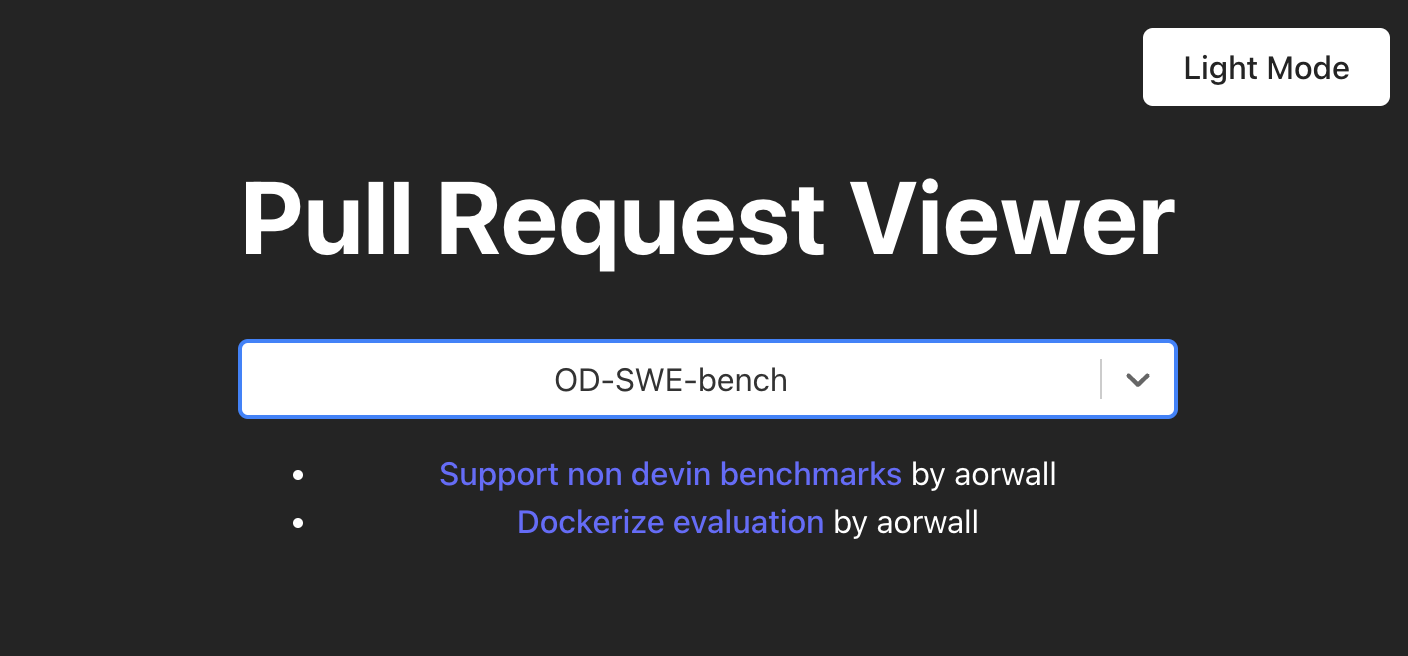
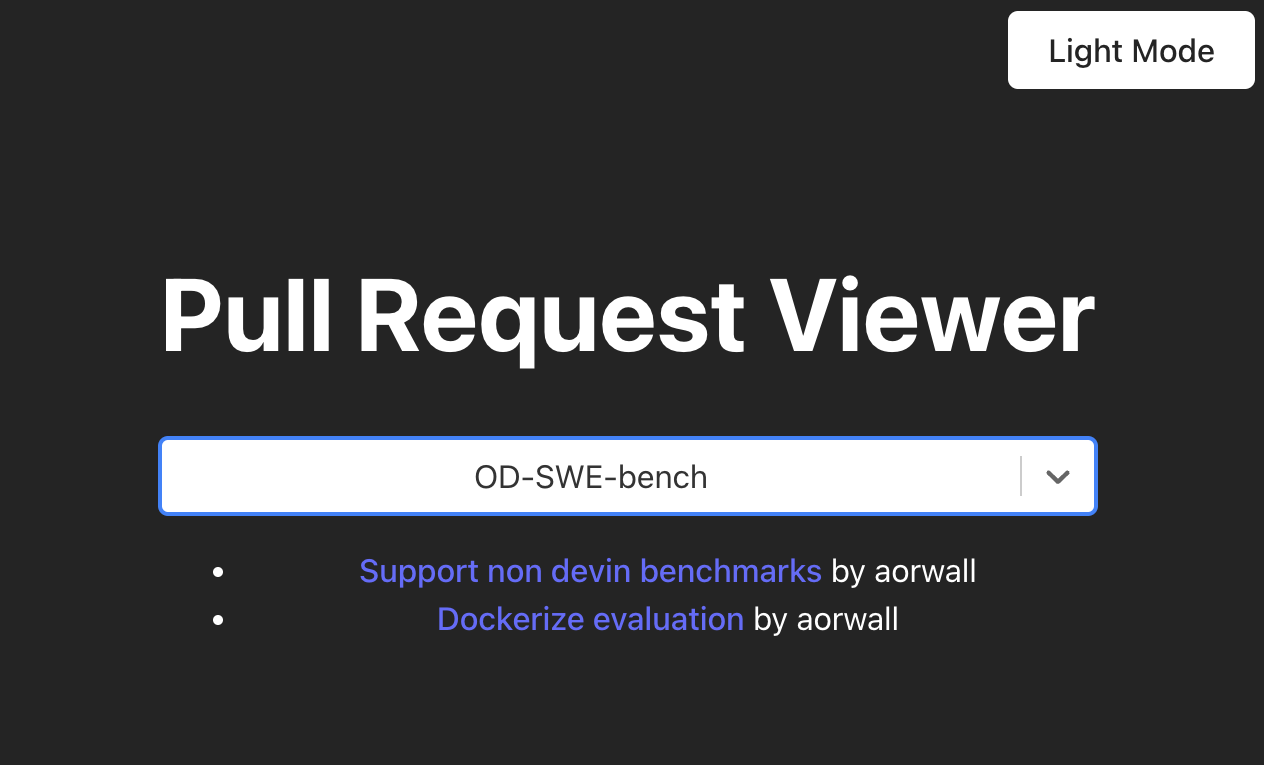
Update

Changed region(s): [[0.1234, 0.5183, 0.8948, 0.8232], [0.1234, 0.2744, 0.8639, 0.4878], [0.7714, 0.0, 1.0, 0.1829]]

diff --git a/src/posts/index.ts b/src/posts/index.ts
@@ -2,10 +2,12 @@ import post1 from "./20240715-introducing-allhands.md?raw";
 import post2 from "./20240801-levels-of-autonomy.md?raw";
 import post3 from "./20240820-unit-test-coverage.md?raw";
 import post4 from "./20240905-funding-announcement.md?raw";
+import post5 from "./20240916-ai-assisted-frontend-development.md?raw";
 
 export const RAW_POSTS = [
   post1,
   post2,
   post3,
   post4,
+  post5,
 ];

diff --git a/src/posts/20240916-ai-assisted-frontend-development.md b/src/posts/20240916-ai-assisted-frontend-development.md
@@ -1,13 +1,13 @@
 ---
 title: "Building a Frontend App with Open Source AI Agents"
-excerpt: ""
-coverImage: "/assets/blog/placeholder.png"
-date: "2024-09-16T08:00:00.000Z"
+excerpt: "Luckily, with the help of recent AI tools, that barrier has significantly lowered, and it's now possible to build practical frontend apps, almost entirely automatically. In this post I'll demonstrate how I built a frontend for a GitHub Pull Request viewer using OpenHands, the open-source AI agent for software development that we're building at All Hands AI."
+coverImage: "/assets/blog/20240916-ai-assisted-frontend-development/pr-viewer-with-dark-mode.png"
+date: "2024-09-10T08:00:00.000Z"
 author:
   name: Graham Neubig
   picture: "/assets/blog/authors/graham.jpg"
 ogImage:
-  url: "/assets/blog/placeholder.png"
+  url: "/assets/blog/20240916-ai-assisted-frontend-development/pr-viewer-with-dark-mode.png"
 ---
 
 # Building a Frontend App with Open Source AI Agents
@@ -18,22 +18,28 @@ Luckily, with the help of recent AI tools, that barrier has significantly lowere
 
 The GitHub PR viewer is an example of something that's simple but practical -- it allows me as a developer to view all open PRs across my team's GitHub repositories, and it would have been a pain to build manually, but with OpenHands it took around 30 minutes to go from nothing to something that actually worked and even had a few bells and whistles.
 
-If you want to jump to the code, you can find it [here](https://github.com/neubig/pr-viewer).
+If you want to take a look at the code that the agent built, you can find it [here](https://github.com/neubig/pr-viewer).
 
 ## Step 1: Setting the Foundation
 
 I began by providing OpenHands with a detailed prompt, outlining the specific requirements for the app.
 
 ```
-I want to create a React app to view all of the open pull requests that exist on all of my team's github repos. Here are some details:
+I want to create a React app to view all of the open pull 
+requests that exist on all of my team's github repos. Here 
+are some details:
 
-1. Please initialize the app using vite and react-ts. You will not be able to interactively enter content, so you can use "yes | npm …" to pipe in confirmations to the npm functions.
-2. You can test the app on the https://github.com/OpenDevin/ github org
-3. I have provided a github token in the .env file (the variable name is GITHUB_TOKEN)
-4. It should have a dropdown that allows me to select a single repo within the org.
-5. There should be tests written using vitest. You can add the --run argument to npm test to avoid interactive commands.
+1. Please initialize the app using vite and react-ts.
+2. You can test the app on the https://github.com/OpenDevin/
+   github org
+3. I have provided a github token in the .env file (the
+   variable name is GITHUB_TOKEN)
+4. It should have a dropdown that allows me to select a
+   single repo within the org.
+5. There should be tests written using vitest.
 
-When things are working, initialize a github repo, create a .gitignore file, and commit the changes.
+When things are working, initialize a github repo, create
+a .gitignore file, and commit the changes.
 ```
 
 A few notes about this prompt:
@@ -71,7 +77,10 @@ It's a functioning app! This is exactly what we wanted, pretty exciting to get t
 However, on closer inspection I noticed that the app was only displaying 10 PRs per repo. This seemed like an API limitation, so I asked OpenHands to modify the backend to retrieve all PRs by default.
 
 ```
-It seems that instead of displaying every single open PR, the viewer is only showing about 10 PRs, possibly due to pagination. It would be good if we could fix this, by modifying the backend to retrieve all pull requests by default.
+It seems that instead of displaying every single open PR,
+the viewer is only showing about 10 PRs, possibly due to
+pagination. It would be good if we could fix this, by
+modifying the backend to retrieve all pull requests by default.
 ```
 
 OpenHands managed to fix this pretty quickly, so I pushed the resulting code and the app was fully functional.
@@ -81,9 +90,11 @@ OpenHands managed to fix this pretty quickly, so I pushed the resulting code and
 Already, the app looked decent -- it was simple and followed React best practices. But I also like having dark mode for when I'm working in dim places, with a simple prompt below.
 
 ```
-It'd be nice if this app could also support dark mode, we can add a toggle that can turn on dark mode.
+It'd be nice if this app could also support dark mode, we can
+add a toggle that can turn on dark mode.
 
-This would require adding a toggle that switches between the different modes to JS, and modifying the css file.
+This would require adding a toggle that switches between the
+different modes to JS, and modifying the css file.
 ```
 
 The resulting code worked out of the box, and I was able to toggle dark mode on and off with no issues.
